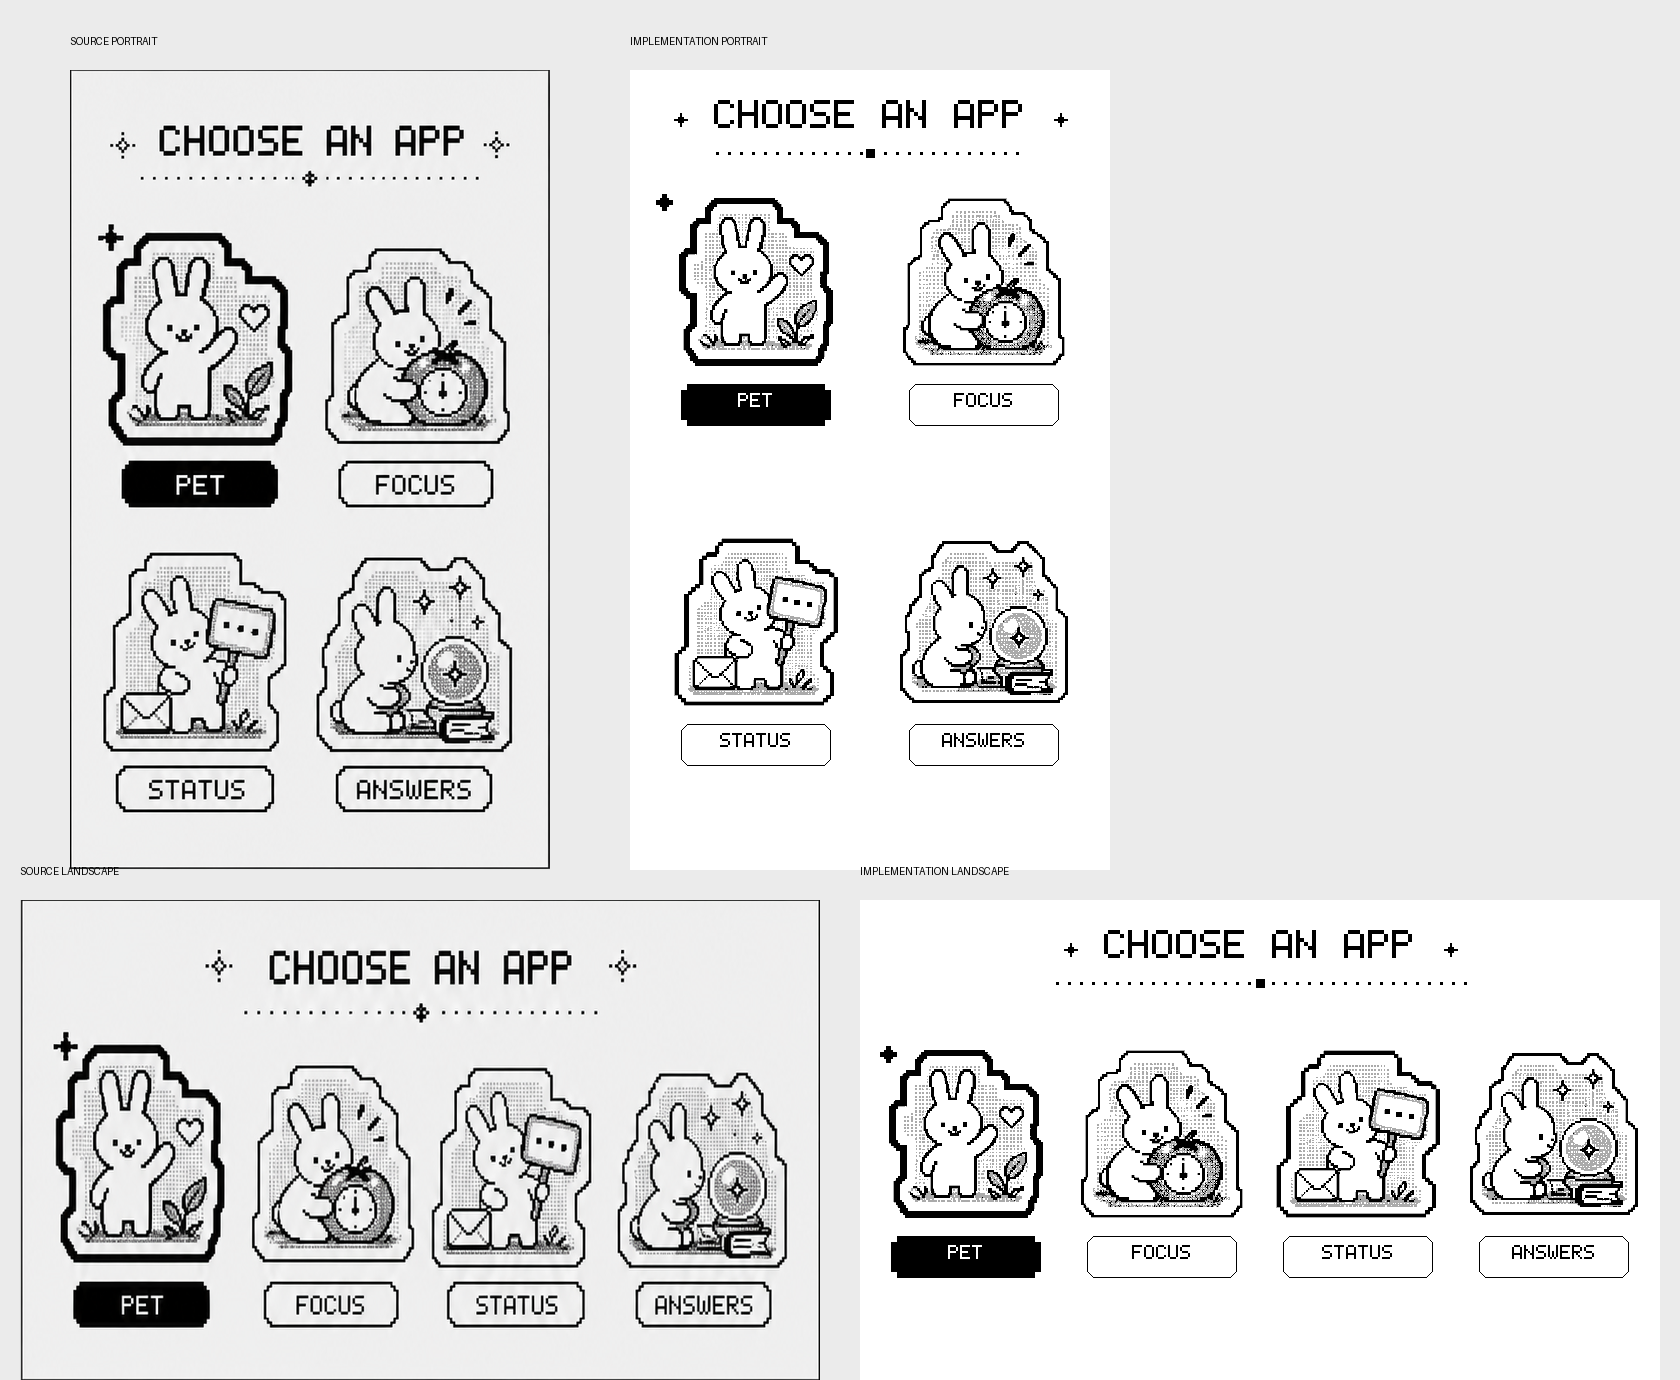
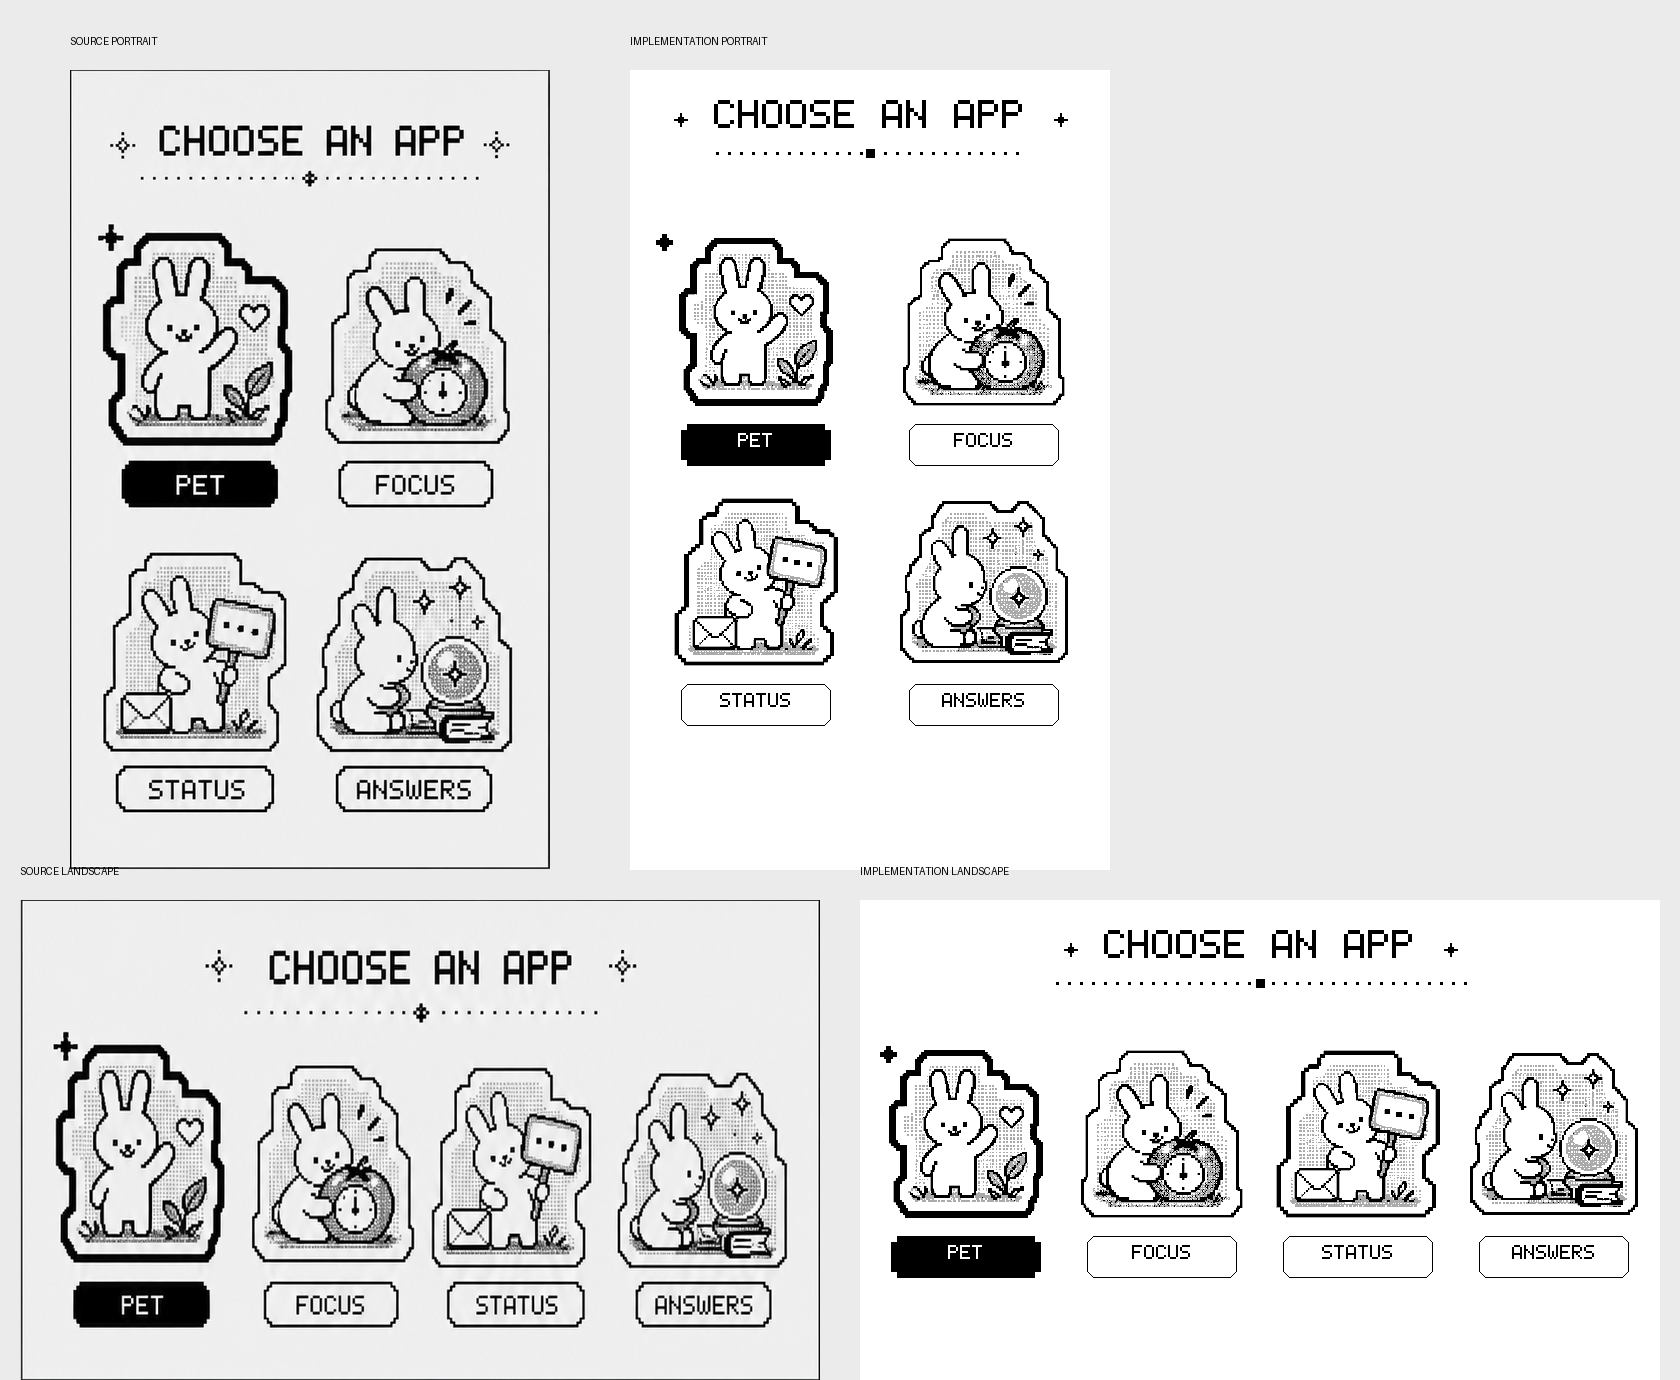
refactor: tighten portrait launcher spacing

Changed region(s): [[0.5262, 0.1558, 0.65, 0.5609], [0.4024, 0.1246, 0.4952, 0.5609]]

diff --git a/src/ui/app_pages.cpp b/src/ui/app_pages.cpp
@@ -50,8 +50,8 @@ std::array<LauncherCard, kCardCount> launcher_cards(int width, int height)
         constexpr int kCardHeight = 244;
         constexpr int kColumnGap = 16;
         const int left = (width - kCardWidth * 2 - kColumnGap) / 2;
-        constexpr int kTopRowY = 114;
-        constexpr int kBottomRowY = 454;
+        constexpr int kTopRowY = 154;
+        constexpr int kBottomRowY = 414;
         return {{{StickyAppId::DesktopPet,
                   left, kTopRowY, kCardWidth, kCardHeight,
                   kTopRowY + 10, kTopRowY + 200},

diff --git a/test/sticky_app_launcher_render_test.cpp b/test/sticky_app_launcher_render_test.cpp
@@ -76,6 +76,8 @@ int main()
     assert(selected_app == StickyAppId::BookOfAnswers);
     assert(!app_page_launcher_app_at(
         canvas.width(), canvas.height(), 240, 400, selected_app));
+    assert(!app_page_launcher_app_at(
+        canvas.width(), canvas.height(), 132, 406, selected_app));
     write_preview(buffer, "/tmp/sticky_launcher_portrait.ppm");
 
     canvas.set_rotation(CanvasRotation::Deg0);

diff --git a/design-qa.md b/design-qa.md
@@ -20,7 +20,7 @@ The ImageGen board does not preserve the hardware's exact landscape aspect ratio
 ## Required fidelity surfaces
 
 - Fonts and typography: the built-in Sticky pixel font matches the source family and uppercase treatment. The title uses scale 4 and labels use scale 2, preserving the intended hierarchy without wrapping or truncation.
-- Spacing and layout rhythm: portrait uses two centered rows with equal columns; landscape uses four equal touch tracks. Labels share one size and baseline. Every visible sticker remains inside its touch track.
+- Spacing and layout rhythm: portrait uses a compact centered 2 x 2 cluster with equal columns; landscape uses four equal touch tracks. Labels share one size and baseline. Every visible sticker remains inside its touch track.
 - Colors and visual tokens: the page uses white, black, and `LightGray` only. Selected state uses a black label with white text and a black sparkle marker.
 - Image quality and asset fidelity: all four applications use dedicated 176 x 176 generated pixel illustrations with complete silhouettes. Black outlines and gray halftone are stored as separate 1-bit layers and render without scaling artifacts.
 - Copy and content: `CHOOSE AN APP`, `PET`, `FOCUS`, `STATUS`, and `ANSWERS` match the selected design.
@@ -34,6 +34,12 @@ The actual-size full views keep the four illustrations and all labels legible, s
 - Finding: P2, the first implementation used 160 x 160 stickers and a scale-3 title, leaving more empty space than the selected source.
 - Fix: enlarged every sticker to 176 x 176, raised the title to scale 4, repositioned the lower portrait row, and matched the landscape selected state to `PET`.
 - Post-fix evidence: `assets/app_launcher/qa/comparison.png` shows the revised proportions in both orientations.
+
+### Iteration 2
+
+- Finding: P2, the portrait rows were distributed too far toward the top and bottom edges, so the four entries read as two separate bands instead of one application group.
+- Fix: moved the first portrait row down 40 pixels and the second row up 40 pixels, preserving equal label spacing and a 16-pixel non-interactive gap between the touch tracks.
+- Post-fix evidence: `assets/app_launcher/qa/comparison.png` shows the compact centered portrait group while the landscape layout remains unchanged.
 
 ## Findings
 

diff --git a/README.md b/README.md
@@ -212,7 +212,7 @@ clang++ -std=c++17 -Wall -Wextra -Werror \
 /tmp/sticky_app_launcher_render_test
 ```
 
-命令成功后会同时验证八个贴纸触摸点、两个入口间隙以及黑色和浅灰素材层，并生成`/tmp/sticky_launcher_portrait.ppm`和`/tmp/sticky_launcher_landscape.ppm`，分别用于检查竖屏和横屏布局。
+命令成功后会同时验证八个贴纸触摸点、三个入口间隙以及黑色和浅灰素材层，并生成`/tmp/sticky_launcher_portrait.ppm`和`/tmp/sticky_launcher_landscape.ppm`，分别用于检查竖屏和横屏布局。
 
 应用选择动作规则可以脱离硬件验证：
 
